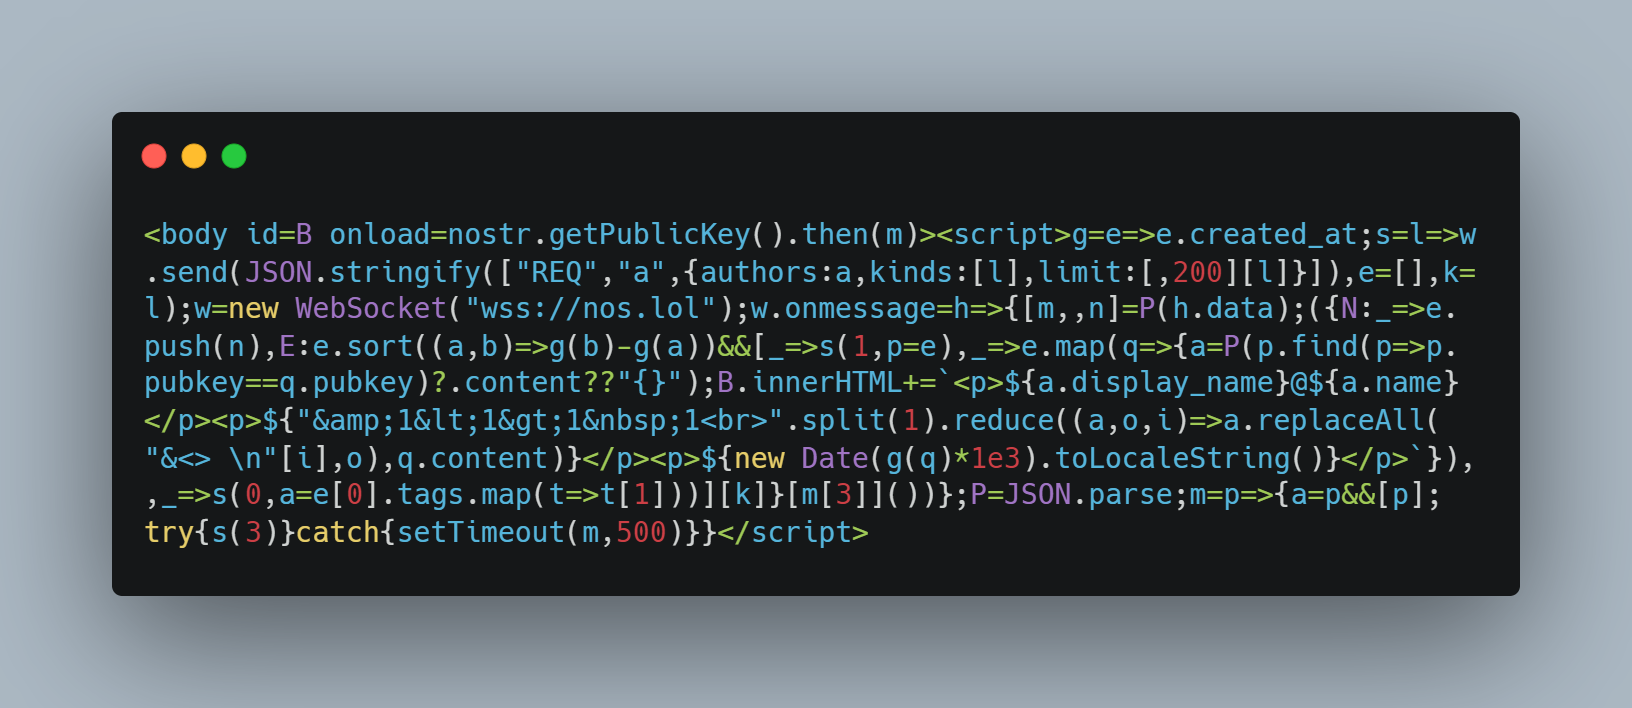
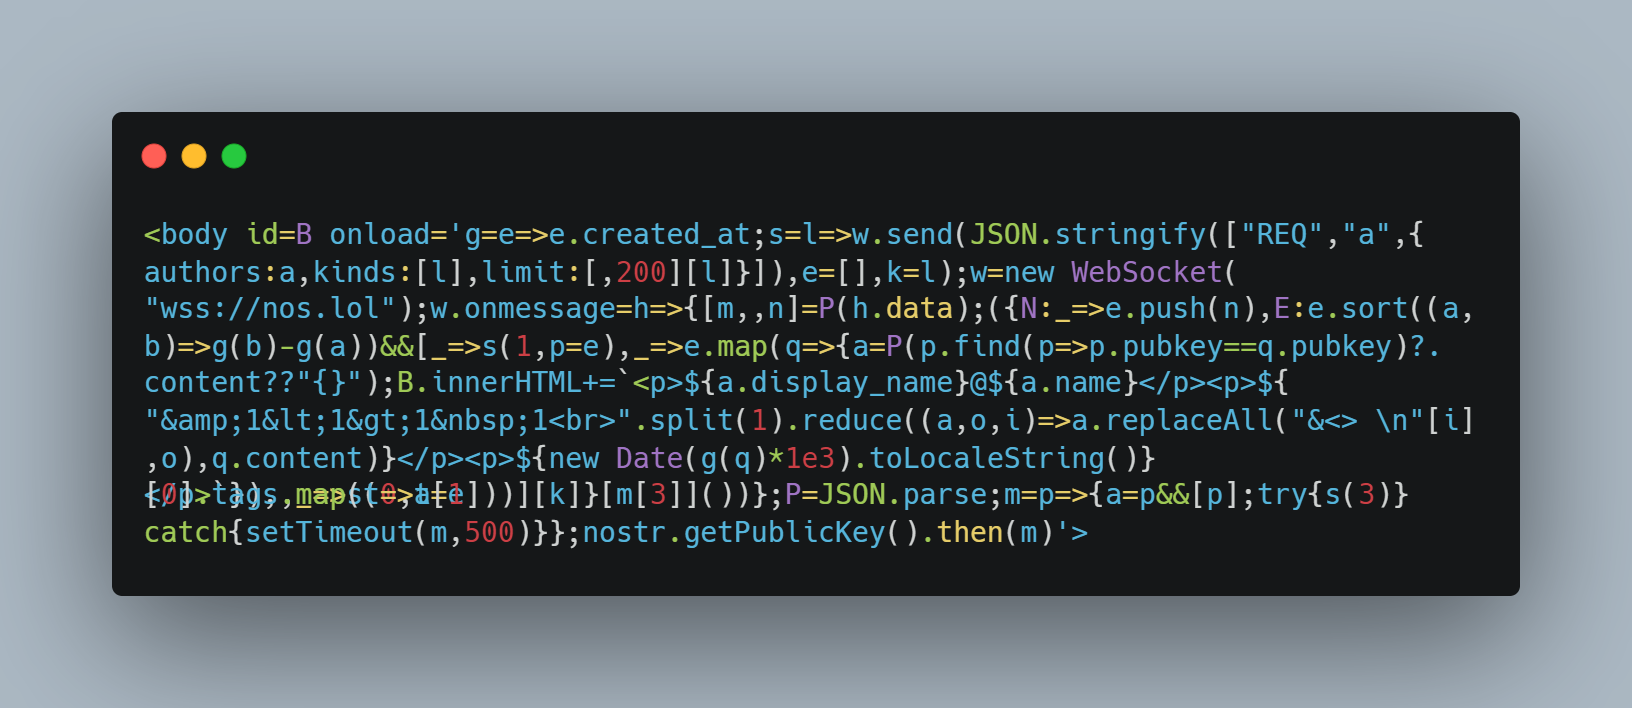
コードをインラインで記述する
https://njump.me/nevent1qqsgj5sksx4ejrya5vyq4sglr8fcwmsmya4w5pec6svlljk6uvc9jkszyrhwlrcux0ltan4u3ls240x0gfngtatqshhgmcgwh6fqp252u0m6kqneezh

Changed region(s): [[0.0938, 0.3107, 0.9062, 0.7768]]

diff --git a/seven/index.html b/seven/index.html
@@ -1,9 +1,9 @@
-<body id=B onload=nostr.getPublicKey().then(m)><script>g=e=>e.created_at;s=l=>w
-.send(JSON.stringify(["REQ","a",{authors:a,kinds:[l],limit:[,200][l]}]),e=[],k=
-l);w=new WebSocket("wss://nos.lol");w.onmessage=h=>{[m,,n]=P(h.data);({N:_=>e.
-push(n),E:e.sort((a,b)=>g(b)-g(a))&&[_=>s(1,p=e),_=>e.map(q=>{a=P(p.find(p=>p.
-pubkey==q.pubkey)?.content??"{}");B.innerHTML+=`<p>${a.display_name}@${a.name}
-</p><p>${"&amp;1&lt;1&gt;1&nbsp;1<br>".split(1).reduce((a,o,i)=>a.replaceAll(
-"&<> \n"[i],o),q.content)}</p><p>${new Date(g(q)*1e3).toLocaleString()}</p>`}),
-,_=>s(0,a=e[0].tags.map(t=>t[1]))][k]}[m[3]]())};P=JSON.parse;m=p=>{a=p&&[p];
-try{s(3)}catch{setTimeout(m,500)}}</script>
+<body id=B onload='g=e=>e.created_at;s=l=>w.send(JSON.stringify(["REQ","a",{
+authors:a,kinds:[l],limit:[,200][l]}]),e=[],k=l);w=new WebSocket(
+"wss://nos.lol");w.onmessage=h=>{[m,,n]=P(h.data);({N:_=>e.push(n),E:e.sort((a,
+b)=>g(b)-g(a))&&[_=>s(1,p=e),_=>e.map(q=>{a=P(p.find(p=>p.pubkey==q.pubkey)?.
+content??"{}");B.innerHTML+=`<p>${a.display_name}@${a.name}</p><p>${
+"&amp;1&lt;1&gt;1&nbsp;1<br>".split(1).reduce((a,o,i)=>a.replaceAll("&<> \n"[i]
+,o),q.content)}</p><p>${new Date(g(q)*1e3).toLocaleString()}</p>`}),,_=>s(0,a=e
+[0].tags.map(t=>t[1]))][k]}[m[3]]())};P=JSON.parse;m=p=>{a=p&&[p];try{s(3)}
+catch{setTimeout(m,500)}};nostr.getPublicKey().then(m)'>

diff --git a/seven/src/index.html b/seven/src/index.html
@@ -1,5 +1,4 @@
-<body id=B onload=nostr.getPublicKey().then(m)>
-  <script>
+<body id=B onload='
     // イベントの created_at の値を返す関数
     g = e => e.created_at;
 
@@ -105,5 +104,7 @@
       } catch {
         setTimeout(m, 500) // 再帰する
       }
-    }
-  </script>
+    };
+
+    nostr.getPublicKey().then(m)'
+>

diff --git a/seven/README.md b/seven/README.md
@@ -8,7 +8,7 @@ https://asaitoshiya.github.io/nostr-toybox/seven/
 
 動作には [NIP-07](https://github.com/nostr-protocol/nips/blob/master/07.md) の拡張機能が必要です。
 
-現在は 9 行 (684 バイト) です。
+現在は 9 行 (670 バイト) です。
 
 
 ## License

diff --git a/seven/README-en.md b/seven/README-en.md
@@ -8,7 +8,7 @@ https://asaitoshiya.github.io/nostr-toybox/seven/
 
 [NIP-07](https://github.com/nostr-protocol/nips/blob/master/07.md) extension is required to work.
 
-Currently it is 9 lines (684 bytes).
+Currently it is 9 lines (670 bytes).
 
 
 ## License
